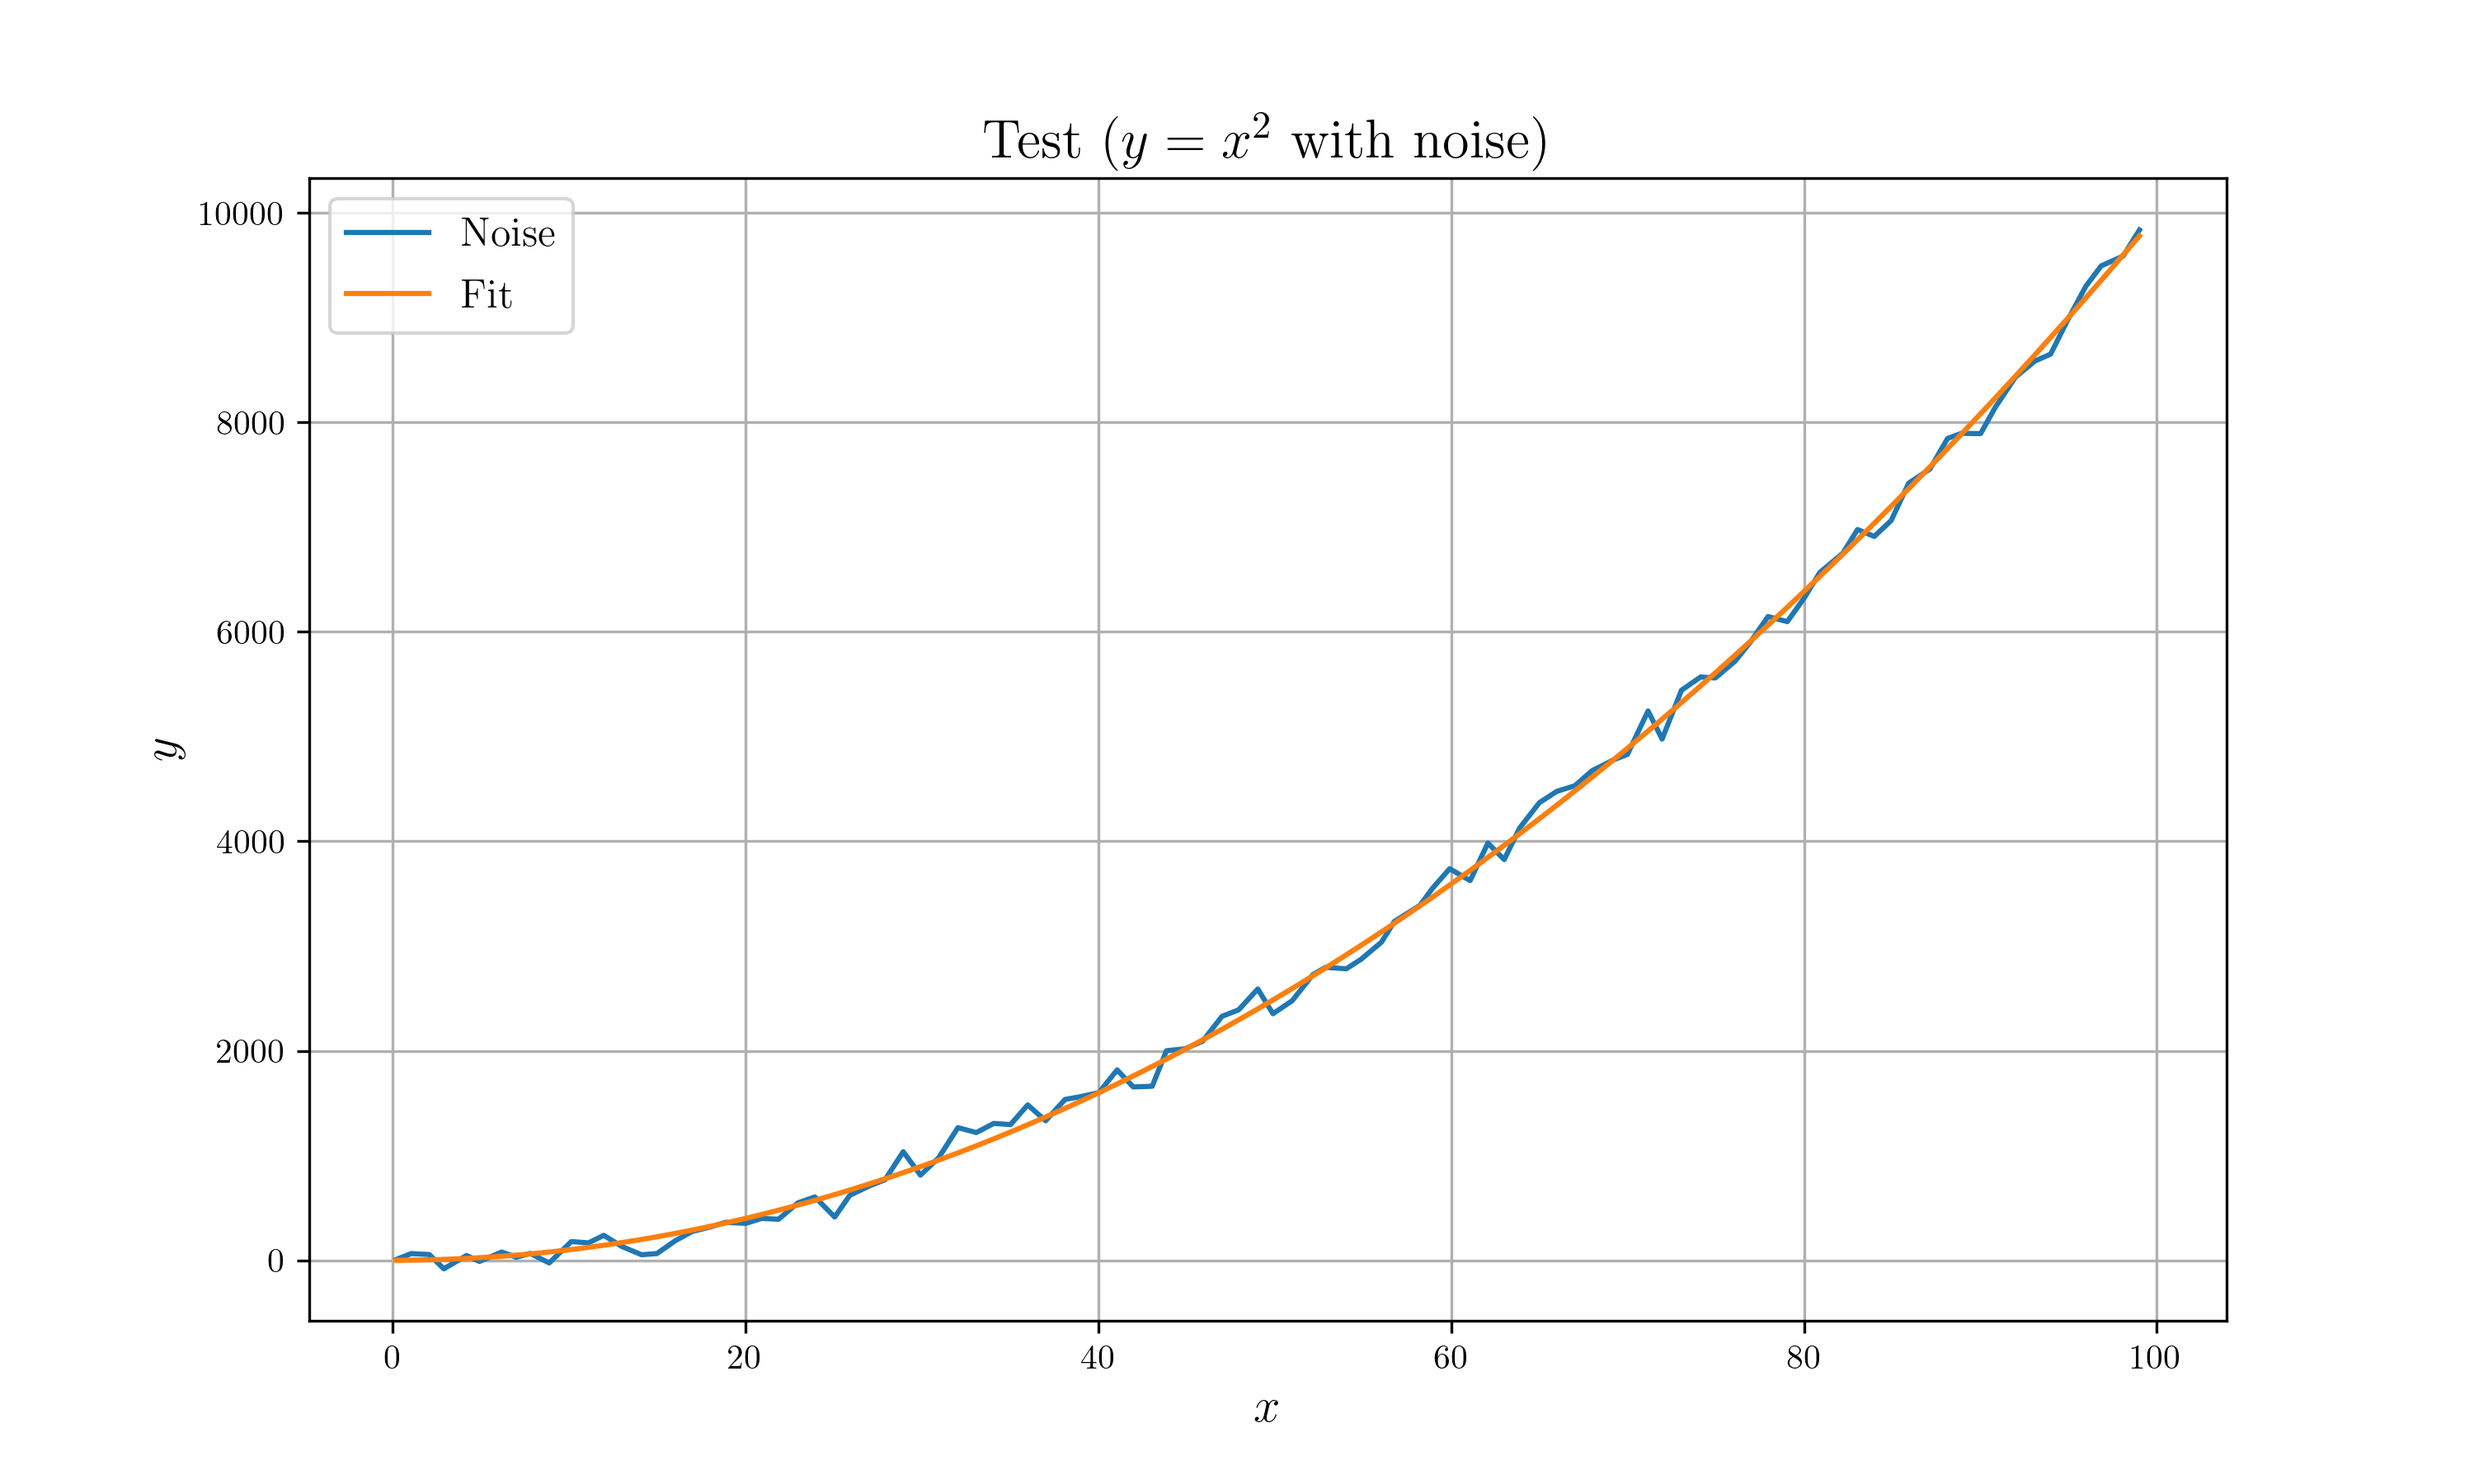
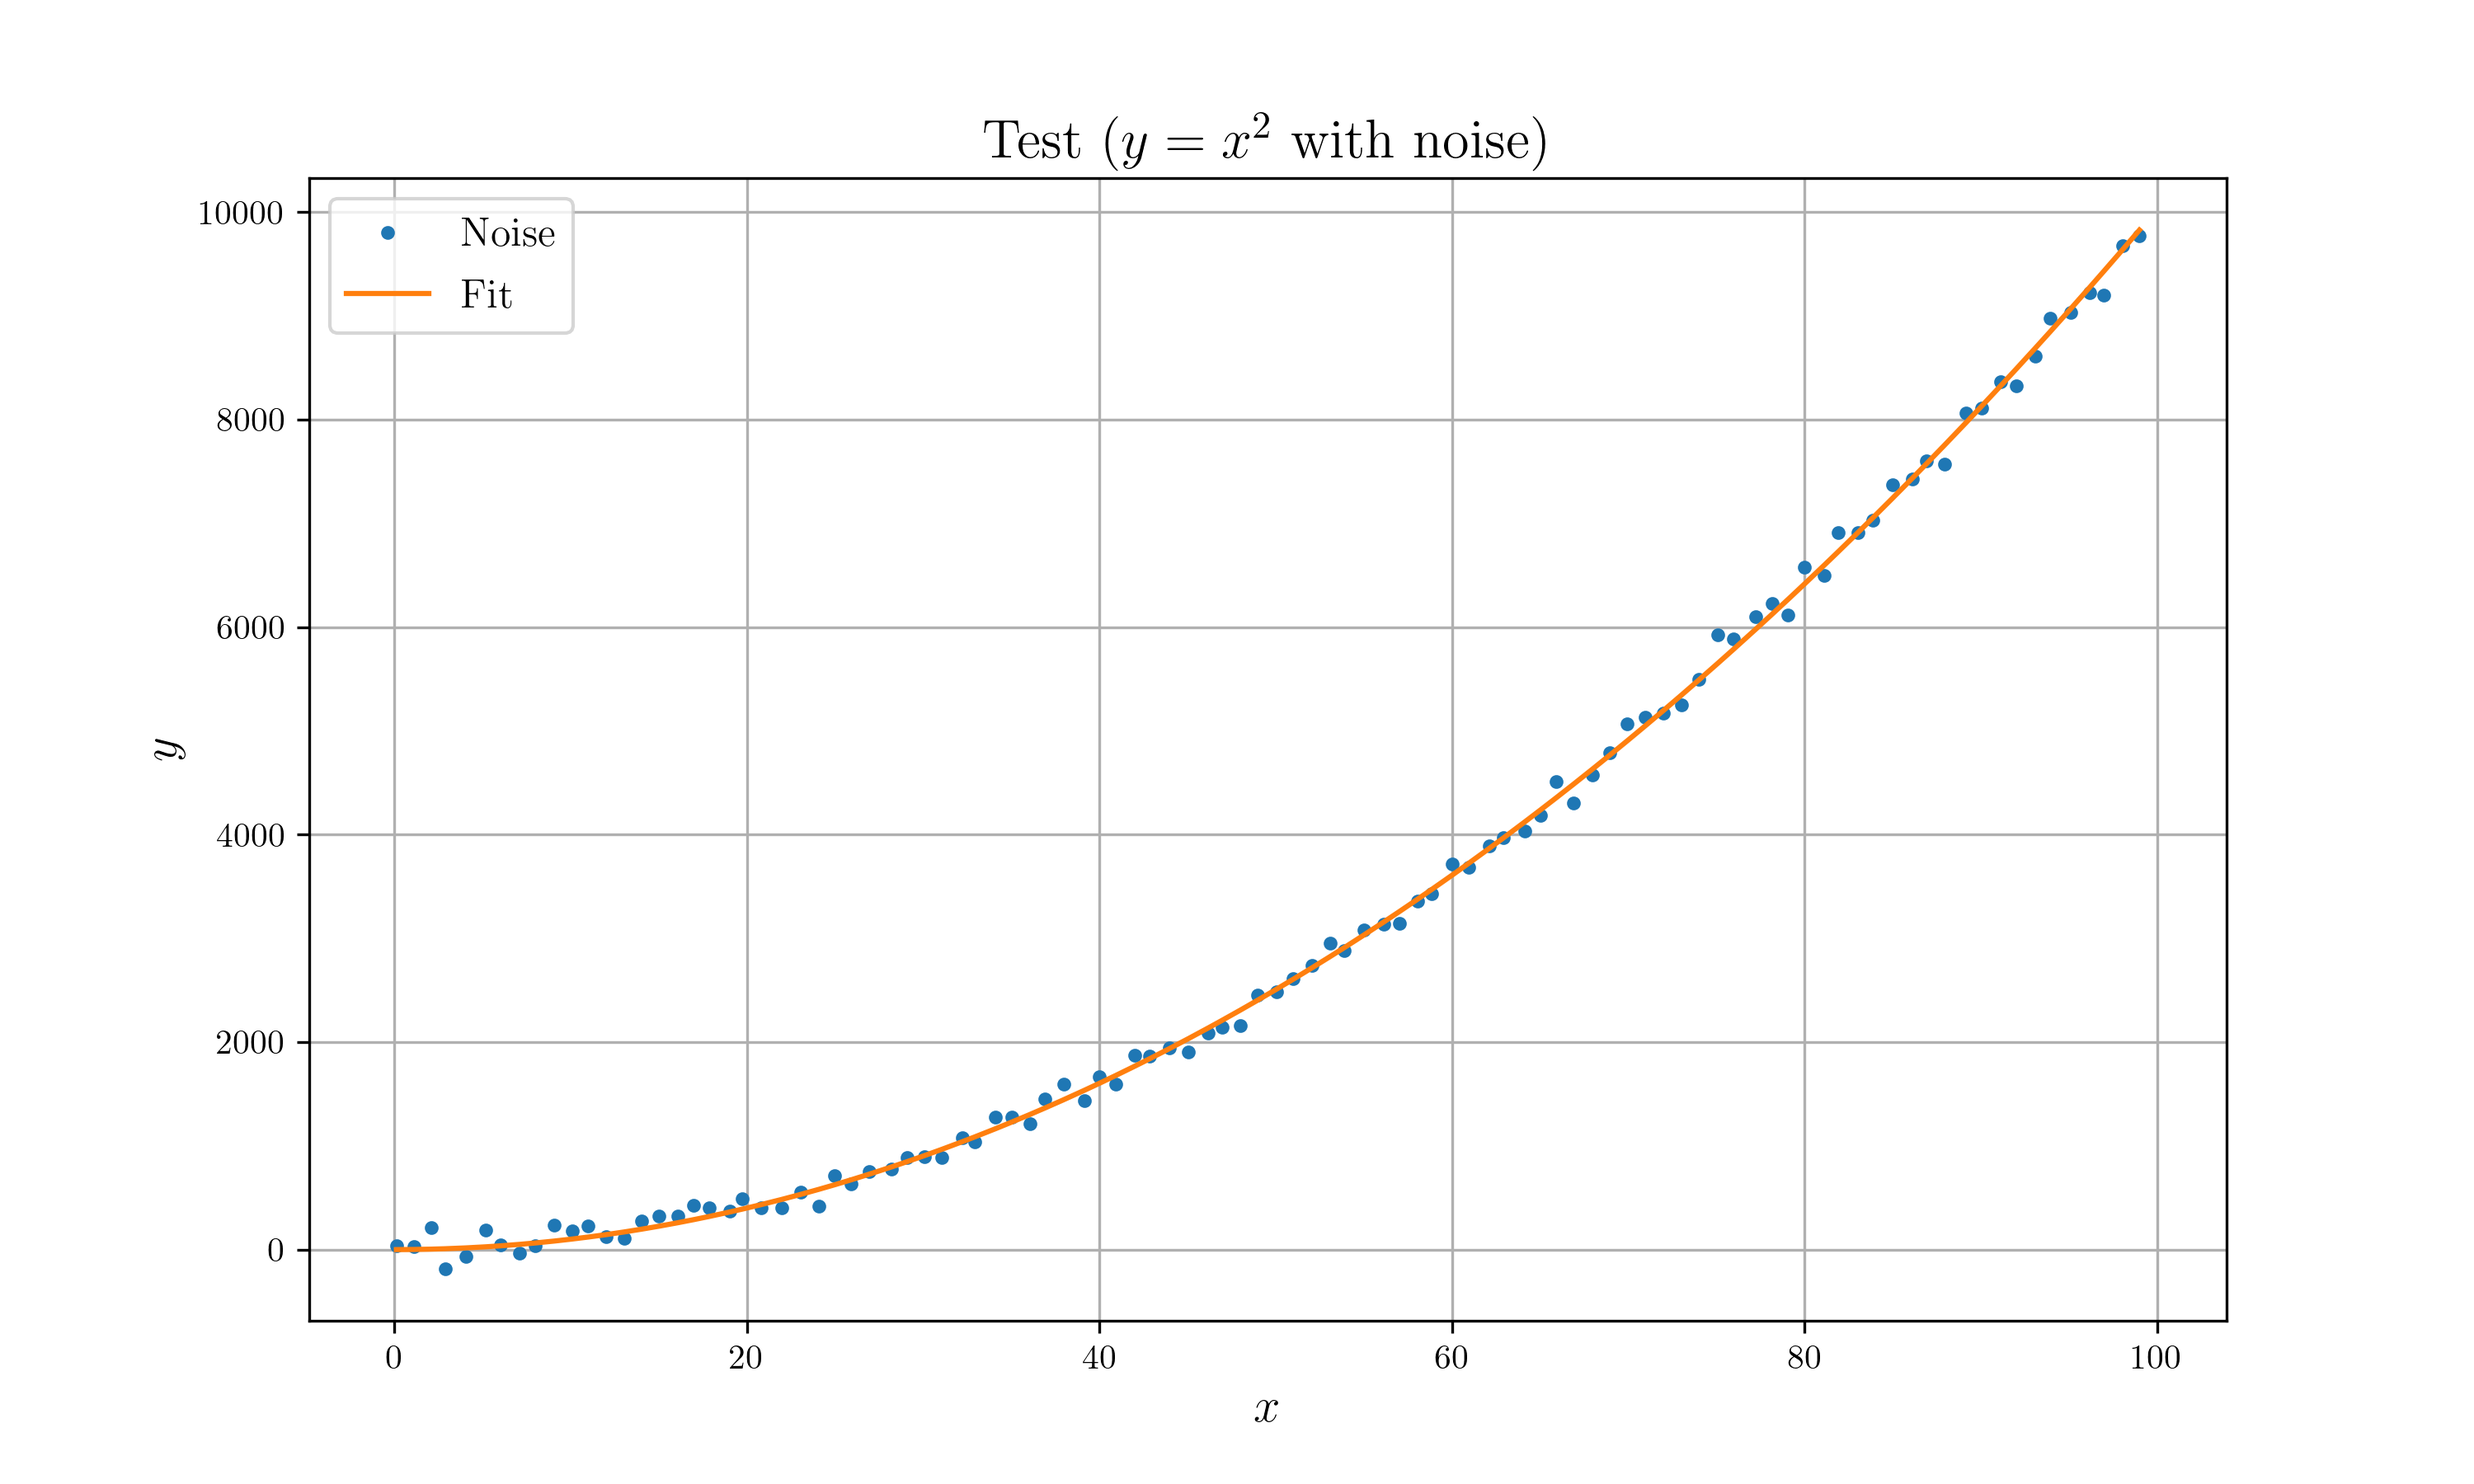
Ver 0.12.2 - Add Markers

diff --git a/src/util/plot.rs b/src/util/plot.rs
@@ -89,6 +89,7 @@ use self::pyo3::{PyResult, Python};
 use std::collections::HashMap;
 pub use Grid::*;
 use PlotOptions::{Domain, Images, Legends, Path};
+pub use Markers::{Point, Line, Circle};
 
 type Vector = Vec<f64>;
 
@@ -98,6 +99,13 @@ pub enum PlotOptions {
     Images,
     Legends,
     Path,
+}
+
+#[derive(Debug, Copy, Clone, Hash, PartialOrd, PartialEq, Eq)]
+pub enum Markers {
+    Point,
+    Line,
+    Circle,
 }
 
 #[derive(Debug, Copy, Clone, Hash, PartialOrd, PartialEq, Eq)]
@@ -118,6 +126,7 @@ pub trait Plot {
     fn set_fig_size(&mut self, fig_size: (usize, usize)) -> &mut Self;
     fn set_dpi(&mut self, dpi: usize) -> &mut Self;
     fn grid(&mut self, grid: Grid) -> &mut Self;
+    fn set_marker(&mut self, styles: Vec<Markers>) -> &mut Self;
     fn savefig(&self) -> PyResult<()>;
 }
 
@@ -129,6 +138,7 @@ pub struct Plot2D {
     xlabel: String,
     ylabel: String,
     legends: Vec<String>,
+    markers: Vec<Markers>,
     path: String,
     fig_size: (usize, usize),
     dpi: usize,
@@ -151,6 +161,7 @@ impl Plot2D {
             xlabel: "$x$".to_string(),
             ylabel: "$y$".to_string(),
             legends: vec![],
+            markers: vec![],
             path: "".to_string(),
             fig_size: (10, 6),
             dpi: 300,
@@ -224,6 +235,11 @@ impl Plot for Plot2D {
 
     fn grid(&mut self, grid: Grid) -> &mut Self {
         self.grid = grid;
+        self
+    }
+
+    fn set_marker(&mut self, styles: Vec<Markers>) -> &mut Self {
+        self.markers = styles;
         self
     }
 
@@ -306,8 +322,19 @@ impl Plot for Plot2D {
             title, xlabel, ylabel
         );
 
-        for i in 0..y_length {
-            plot_string.push_str(&format!("plt.plot(x,y[{}],label=r\"{}\")\n", i, legends[i])[..])
+        if self.markers.len() == 0 {
+            for i in 0..y_length {
+                plot_string.push_str(&format!("plt.plot(x,y[{}],label=r\"{}\")\n", i, legends[i])[..])
+            }
+        } else {
+            for i in 0 .. y_length {
+                match self.markers[i] {
+                    Line => plot_string.push_str(&format!("plt.plot(x,y[{}],label=r\"{}\")\n", i, legends[i])[..]),
+                    Point => plot_string.push_str(&format!("plt.plot(x,y[{}],\".\",label=r\"{}\")\n", i, legends[i])[..]),
+                    Circle => plot_string.push_str(&format!("plt.plot(x,y[{}],\"o\",label=r\"{}\")\n", i, legends[i])[..]),
+                }
+
+            }
         }
 
         plot_string.push_str("plt.legend(fontsize=12)\nplt.savefig(pa)");

diff --git a/src/bin/lm_test.rs b/src/bin/lm_test.rs
@@ -30,6 +30,7 @@ fn main() {
         .set_legends(vec!["Noise", "Fit"])
         .set_title("Test ($y=x^2$ with noise)")
         .set_path("example_data/lm_test.png")
+        .set_marker(vec![Point, Line])
         .savefig().expect("Can't draw a plot");
 }
 

diff --git a/RELEASES.md b/RELEASES.md
@@ -1,3 +1,8 @@
+# Release 0.12.2 (2019-07-30)
+
+* Add `set_markers` for `Plot2D`
+    * Can support `Point`, `Circle`, `Line`
+
 # Release 0.12.1 (2019-07-30)
 
 * Fix error of `powf` in `PowOps` for `Number`
